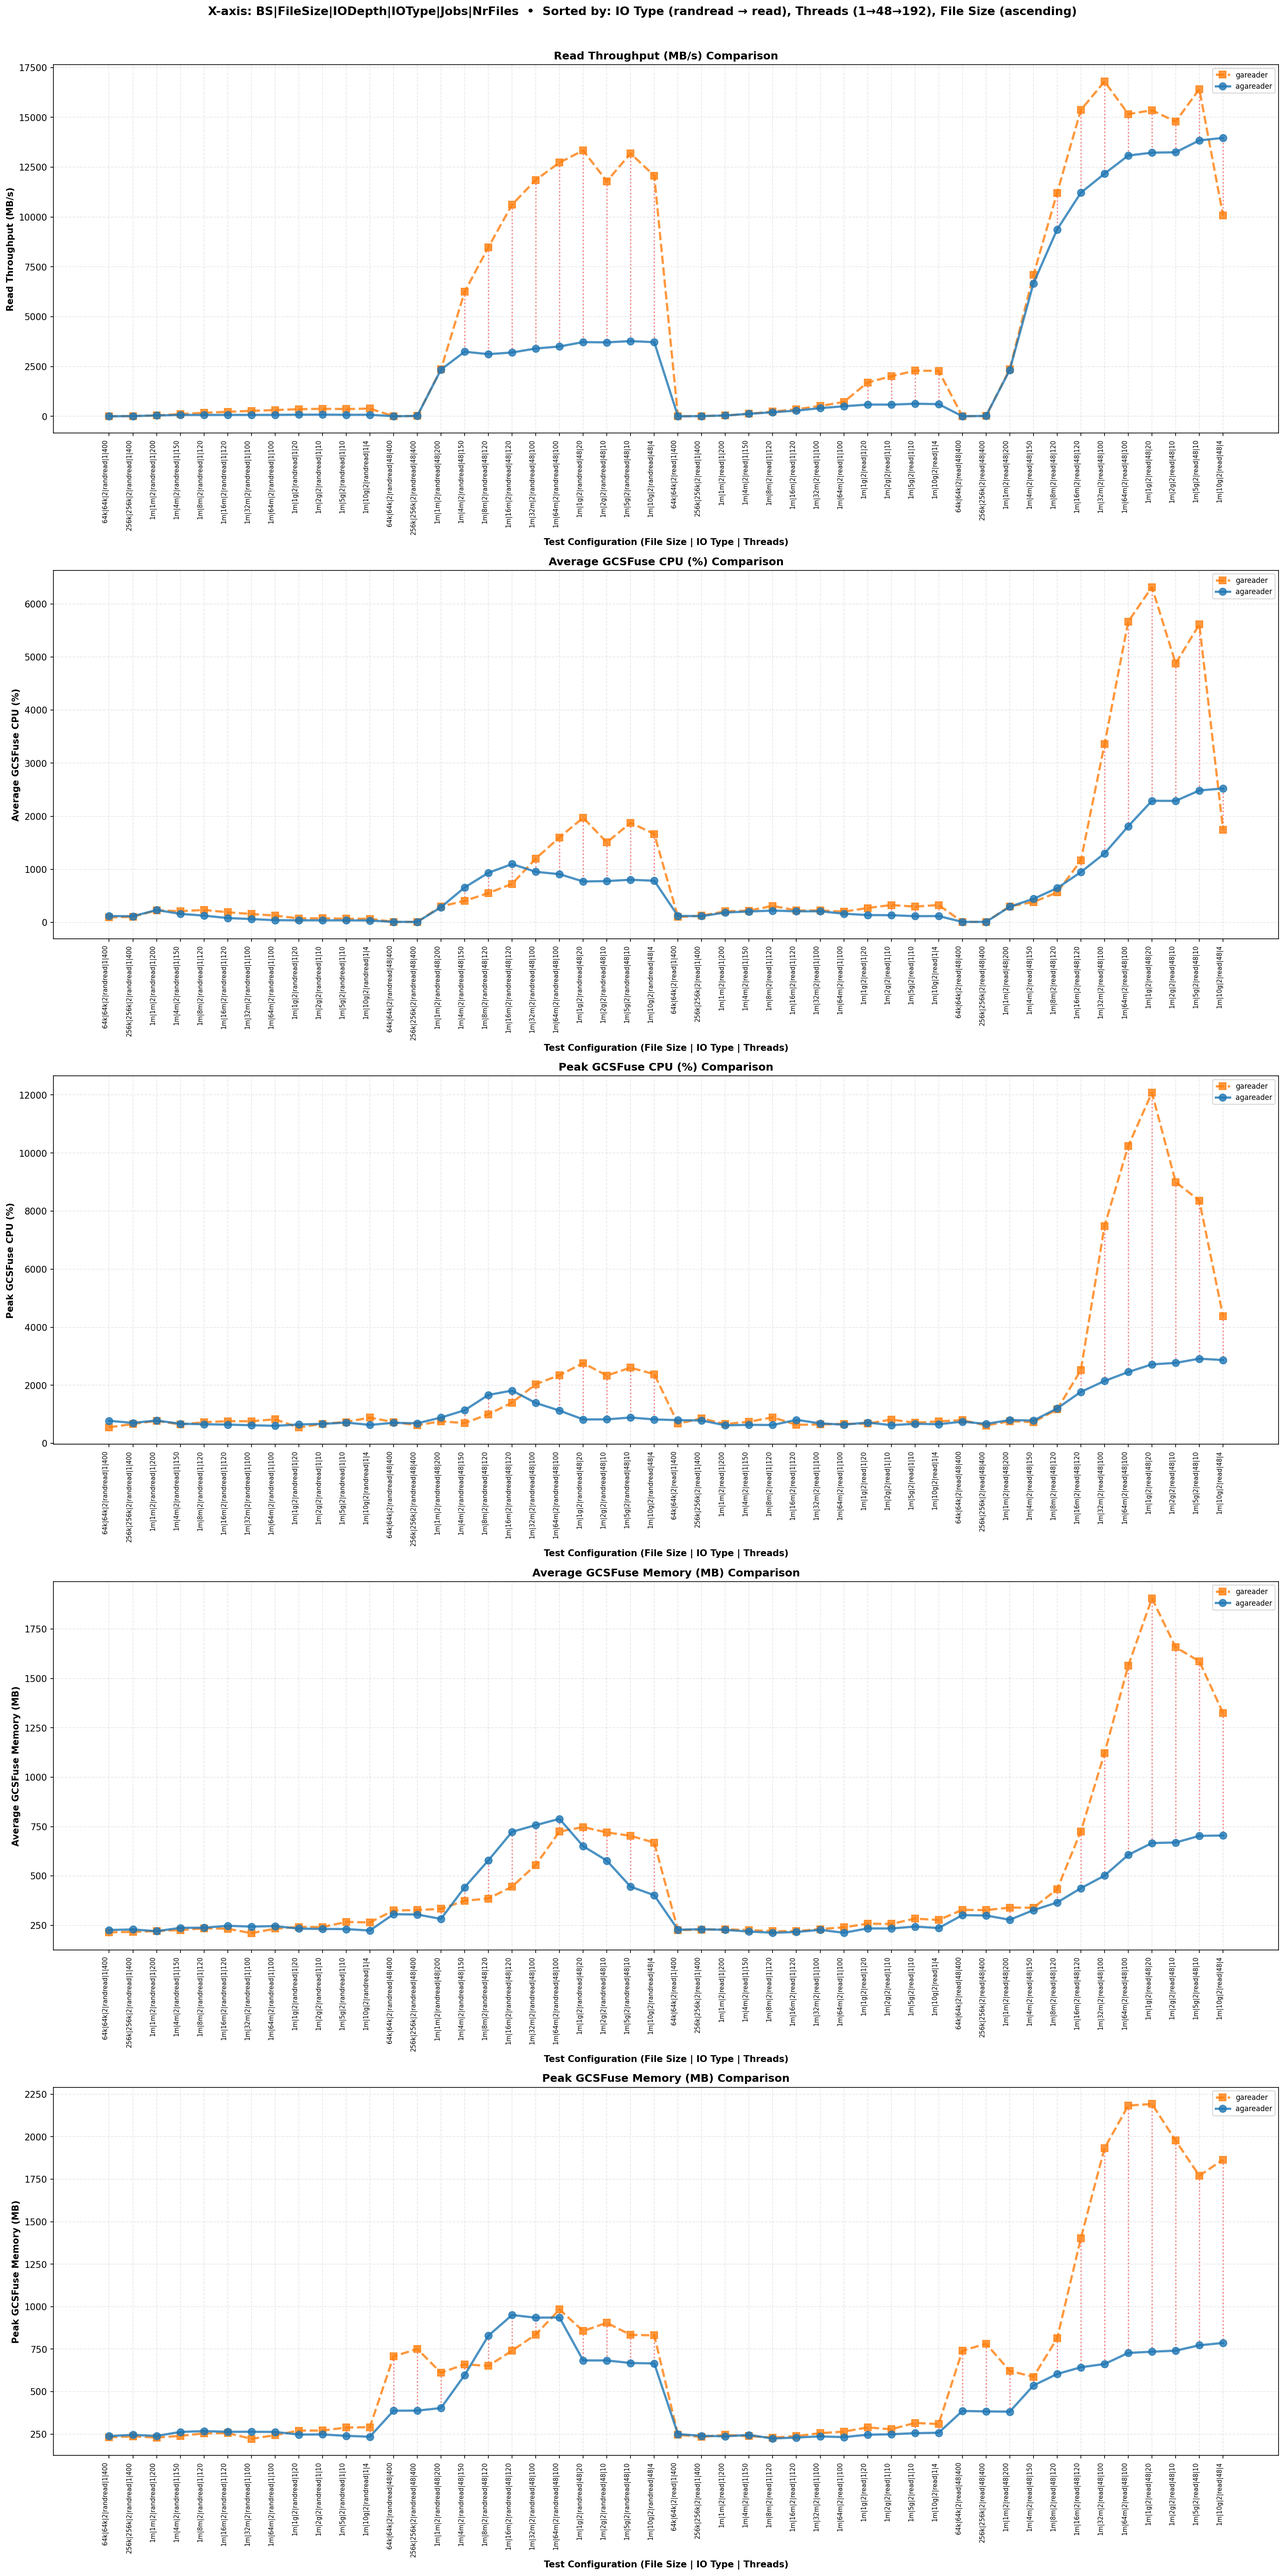
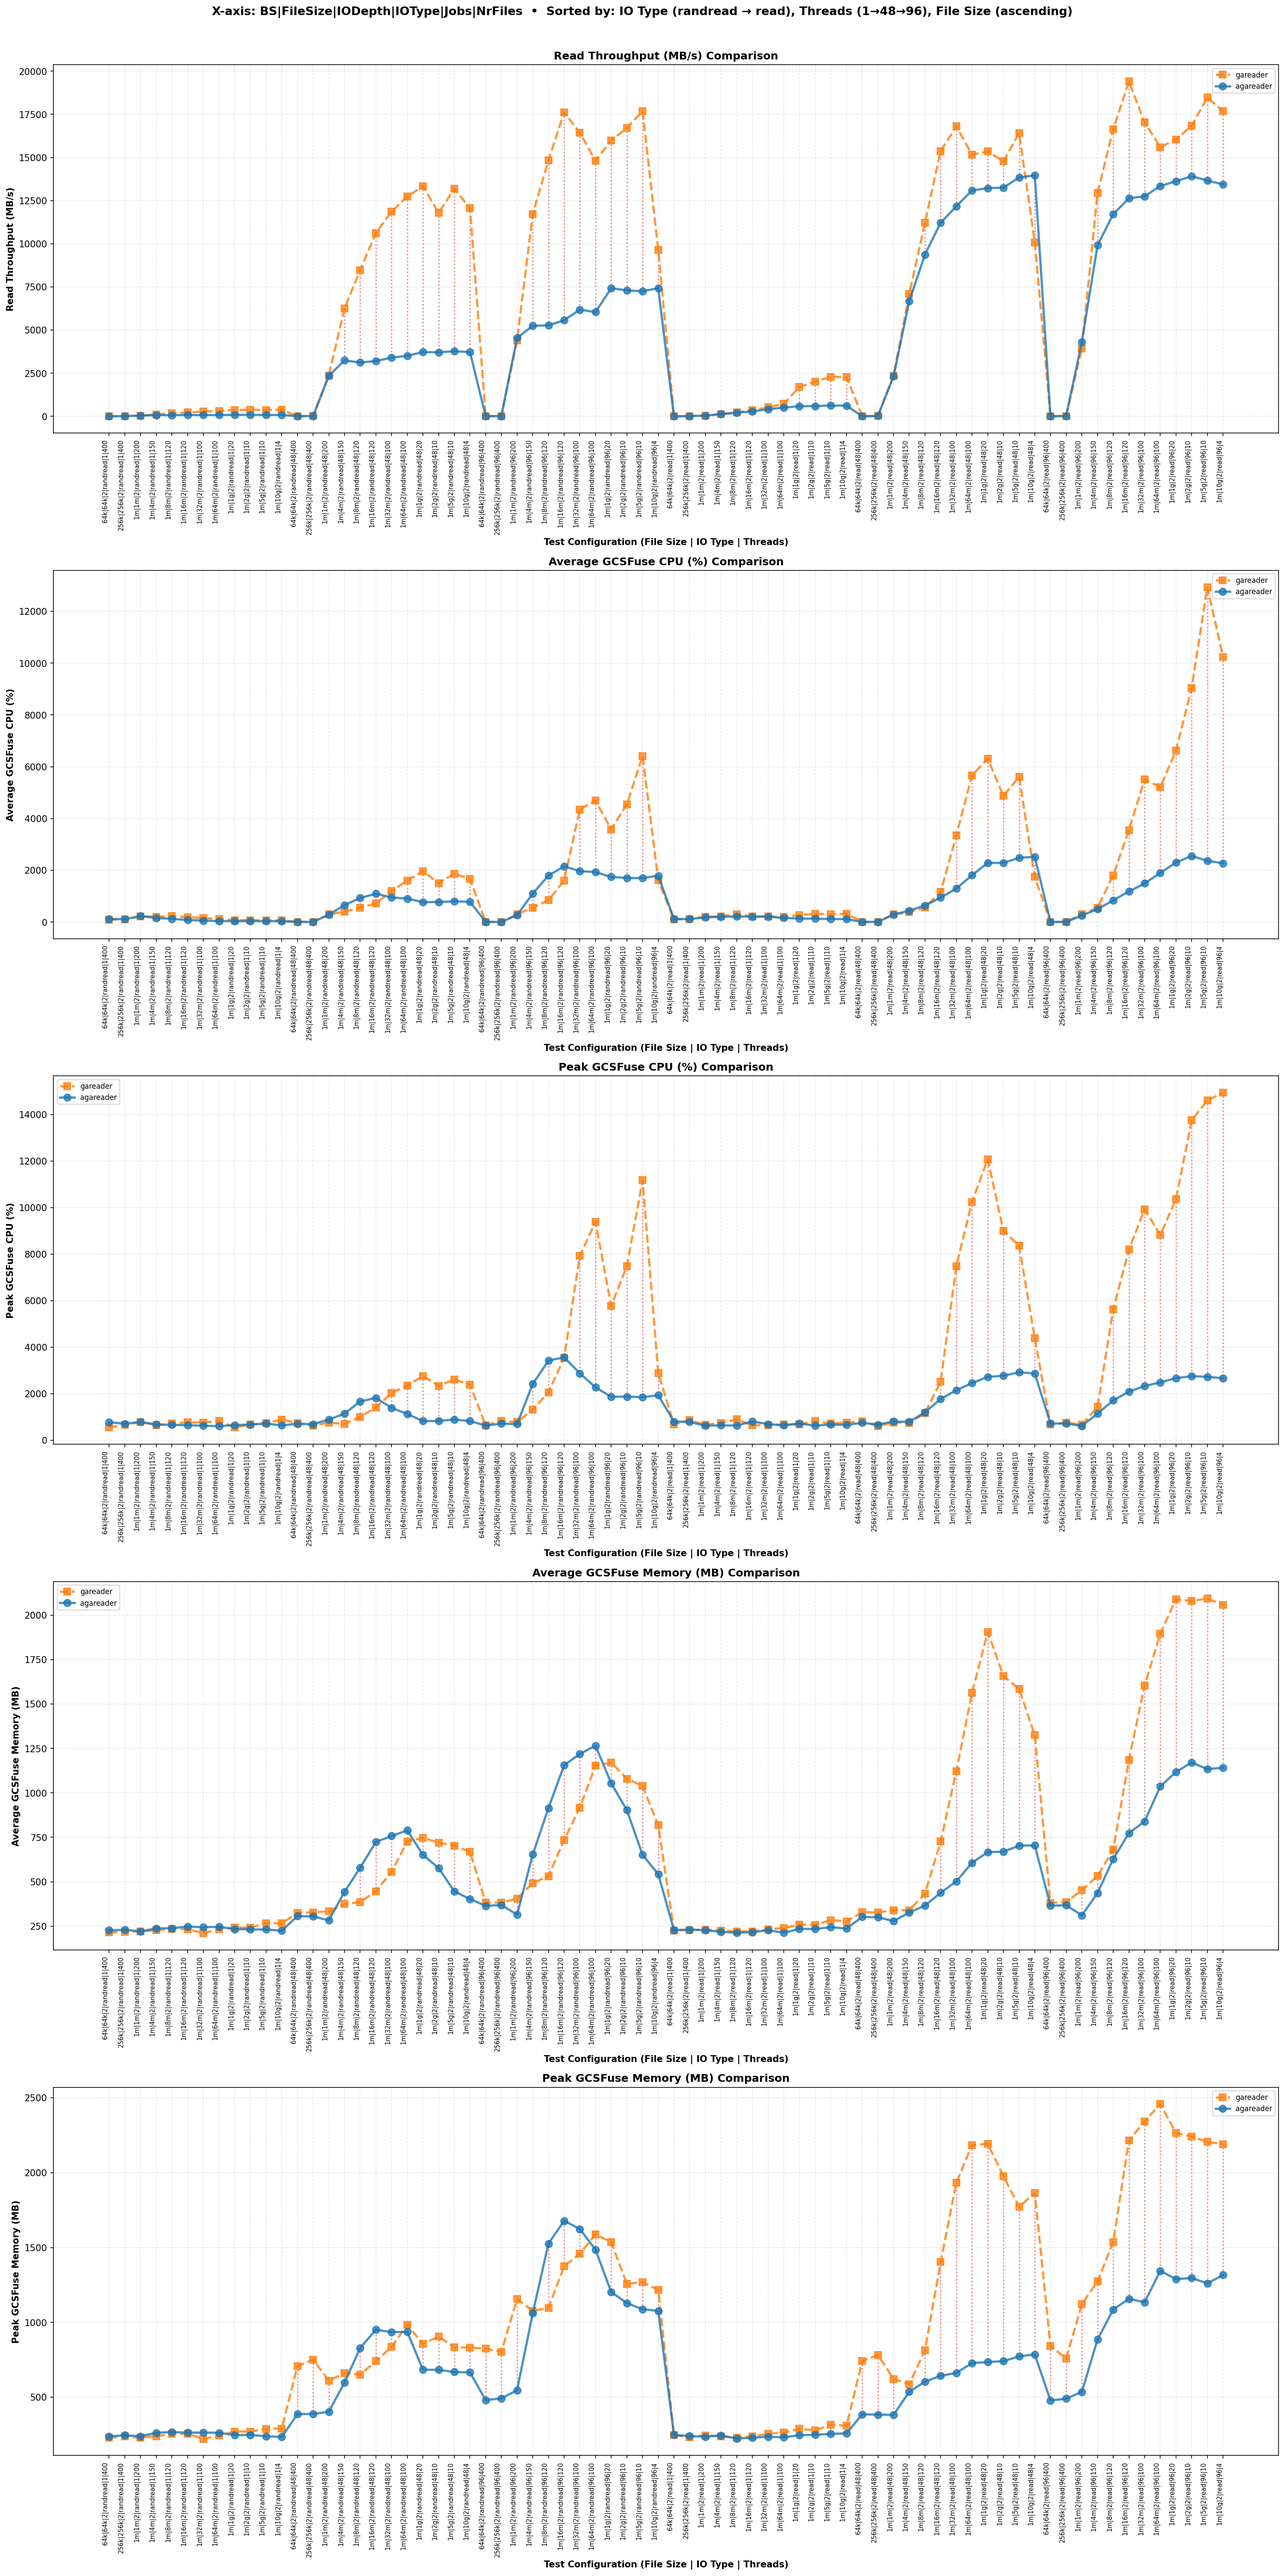
minor change

diff --git a/distributed-micro-benchmarking/plot_reports.py b/distributed-micro-benchmarking/plot_reports.py
@@ -133,9 +133,9 @@ def main():
                     if pd.isna(metric_value) or metric_value == '-':
                         continue
                     
-                    # Parse params and filter for only threads 1, 48, 192
+                    # Parse params and filter for only threads 1, 48, 96
                     params = parse_params(param_str)
-                    if params and params['threads'] not in [1, 48, 192]:
+                    if params and params['threads'] not in [1, 48, 96]:
                         continue
                     
                     all_data.append({
@@ -203,7 +203,7 @@ def main():
         ax.set_xticklabels(unique_params, rotation=90, ha='right', fontsize=7)
     
     # Add overall figure title explaining x-axis and sort order
-    fig.suptitle('X-axis: BS|FileSize|IODepth|IOType|Jobs|NrFiles  •  Sorted by: IO Type (randread → read), Threads (1→48→192), File Size (ascending)', 
+    fig.suptitle('X-axis: BS|FileSize|IODepth|IOType|Jobs|NrFiles  •  Sorted by: IO Type (randread → read), Threads (1→48→96), File Size (ascending)', 
                  fontsize=13, fontweight='bold', y=0.995)
     
     # Adjust layout to prevent label cutoff
